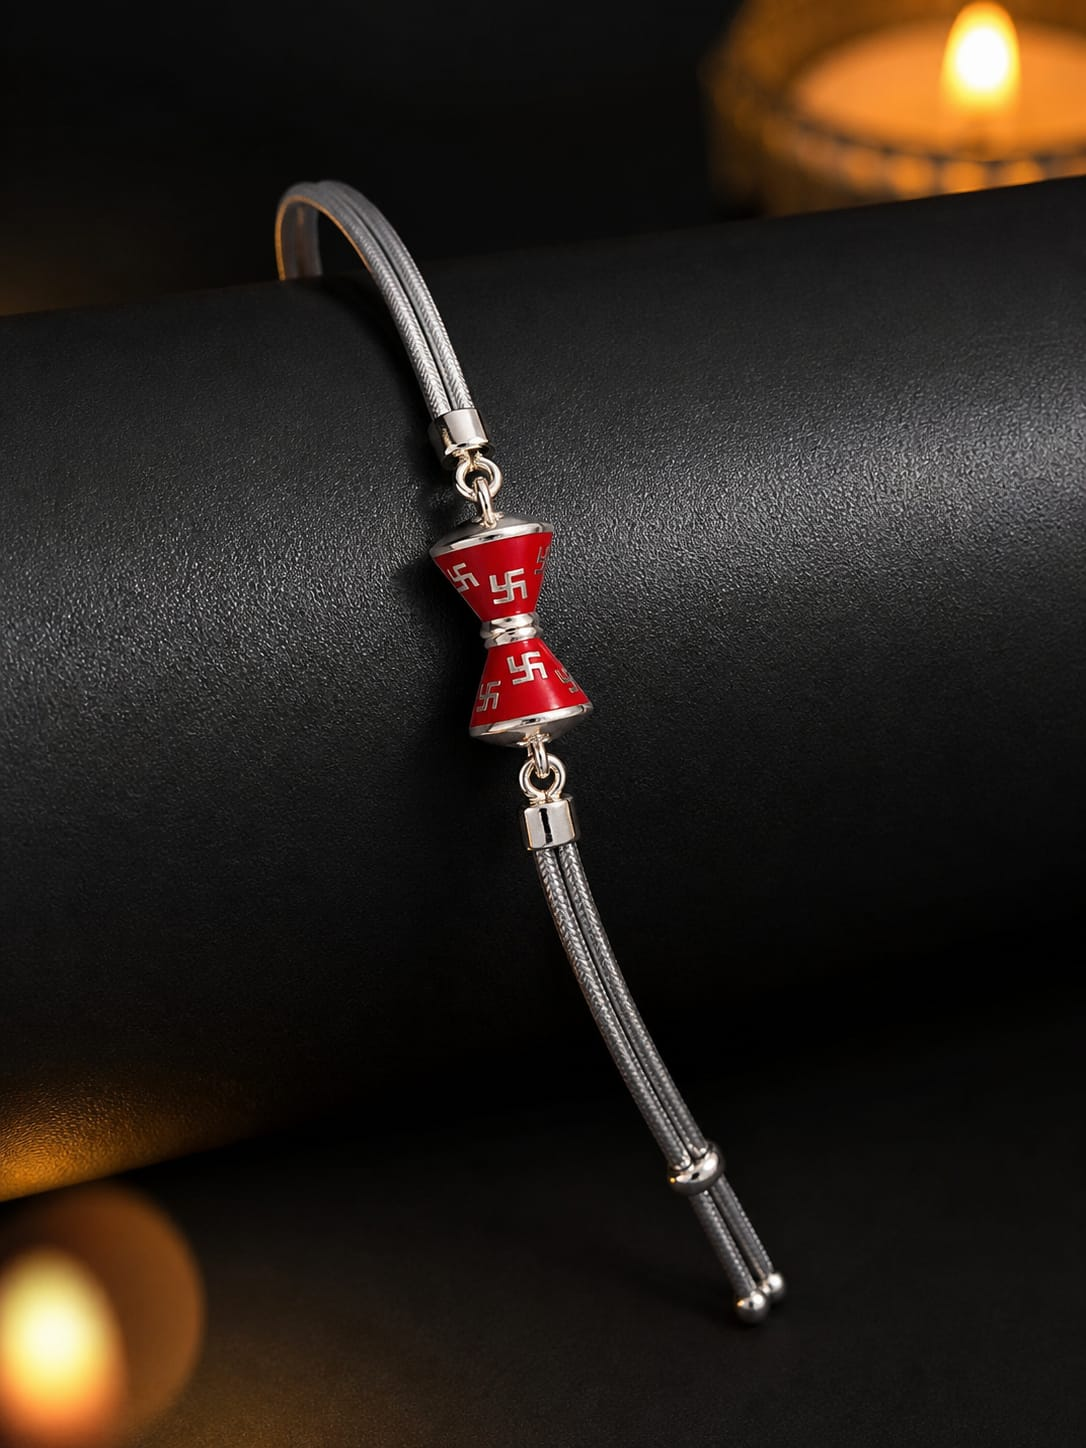
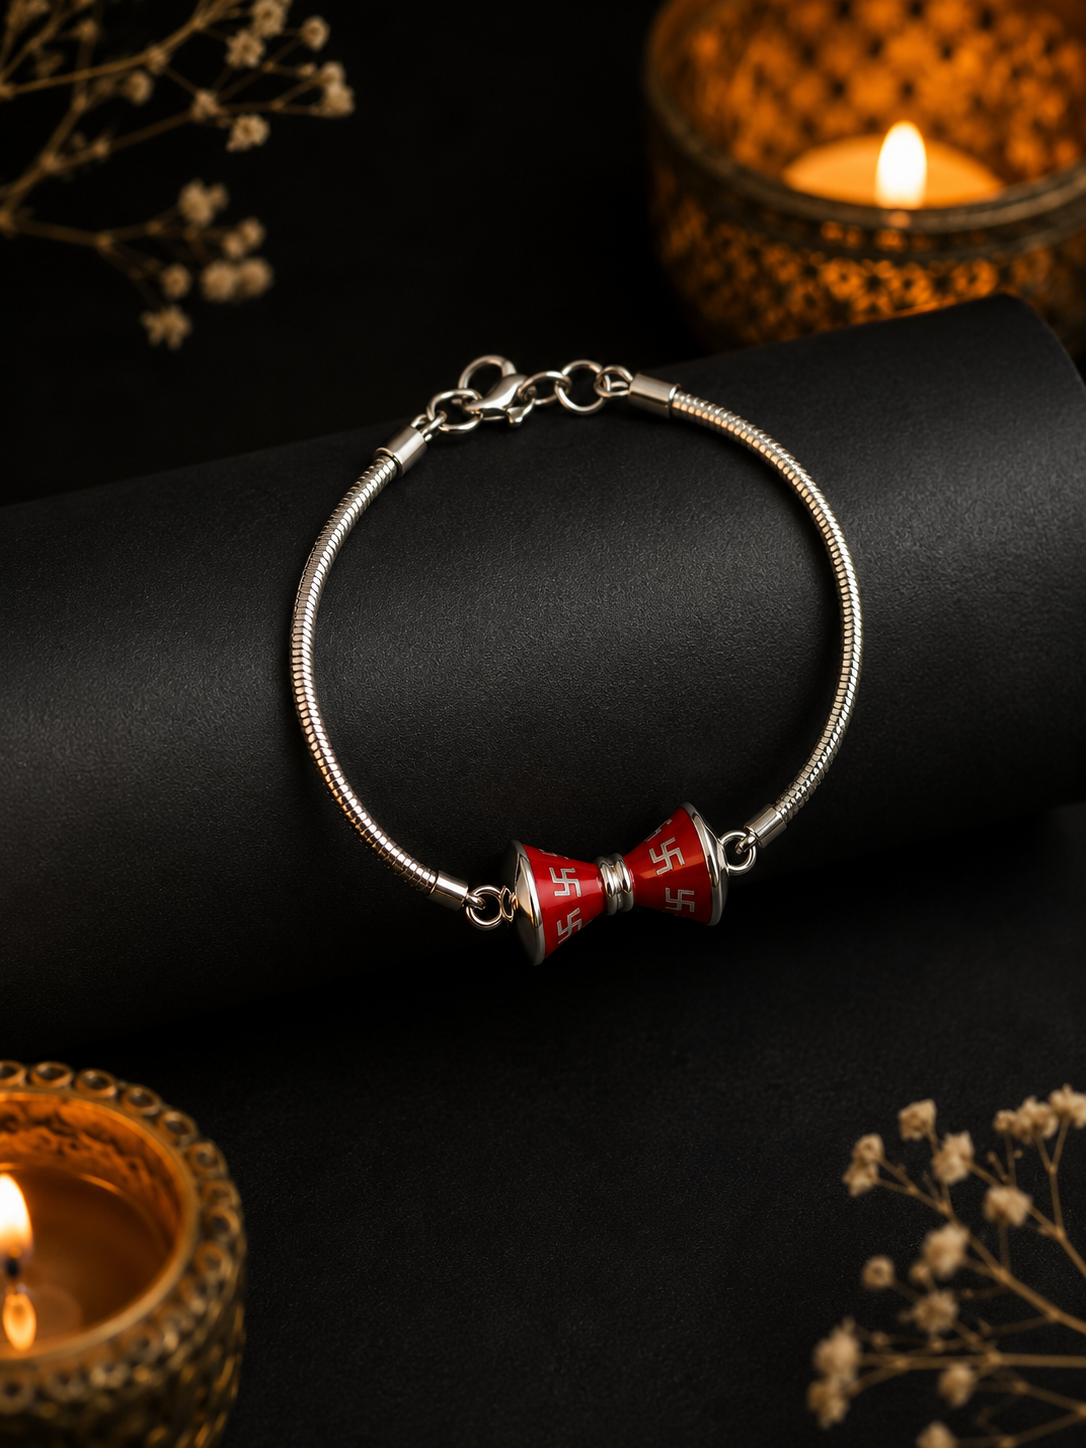
about page

diff --git a/index.html b/index.html
@@ -20,8 +20,8 @@
         -webkit-tap-highlight-color: transparent;
       }
     </style>
-    <script type="module" crossorigin src="./assets/index-ChFGXn5f.js"></script>
-    <link rel="stylesheet" crossorigin href="./assets/index-CCB1r0YO.css">
+    <script type="module" crossorigin src="./assets/index-BcSw84wZ.js"></script>
+    <link rel="stylesheet" crossorigin href="./assets/index-CTsL-6dJ.css">
   </head>
   <body>
     <div id="root"></div>